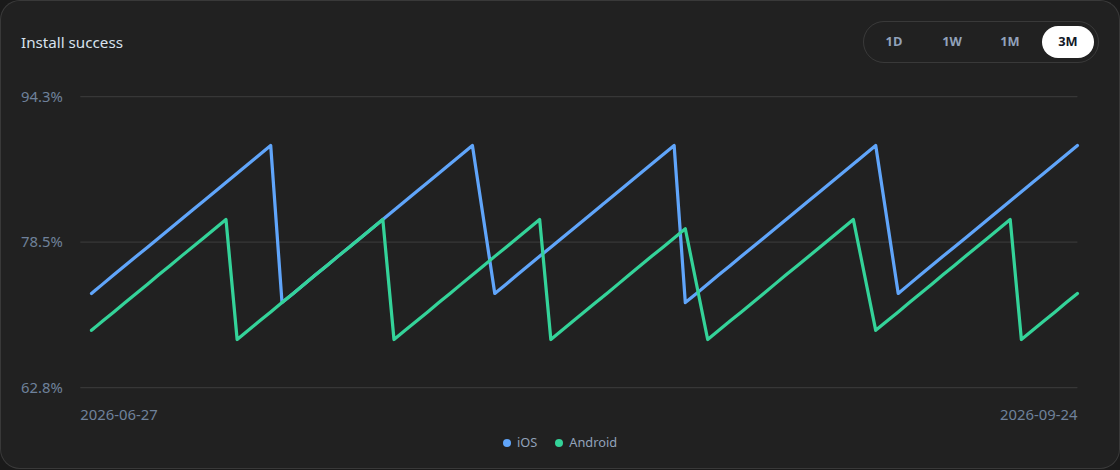
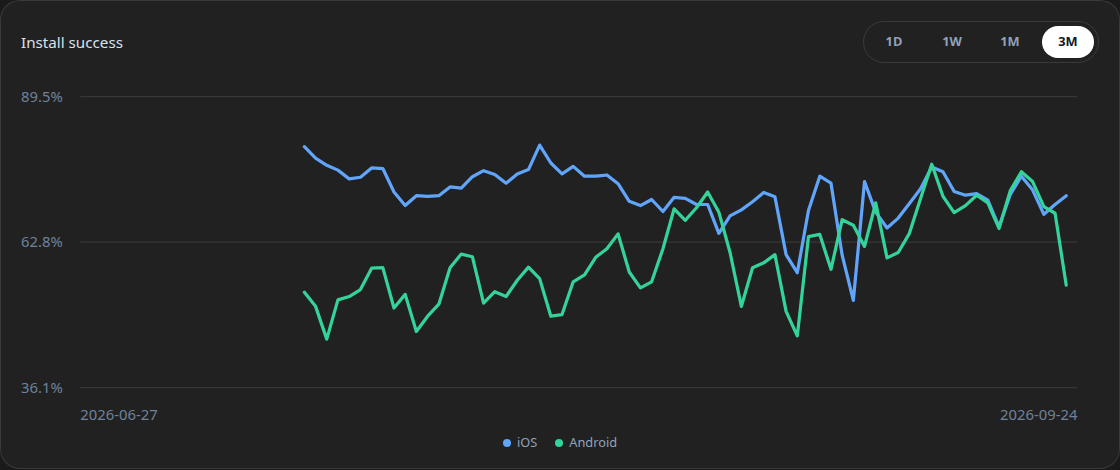
test(data): prod AE snapshot fixture and real chart screenshots
Commit live capgo.app/live-update-metrics.json from 2026-09-24T20:20:13Z.
Re-capture 3M, 1M, and 1D desktop chart crops from that payload with 90-day zero-fill.
Remove mobile fixture screenshots.

diff --git a/apps/web/test/public-live-update-metrics.test.js b/apps/web/test/public-live-update-metrics.test.js
@@ -1,10 +1,24 @@
 import { expect, test } from 'bun:test'
-import { selectTrendRows } from '../src/lib/metricsTrendChart.ts'
+import { readFileSync } from 'node:fs'
+import { buildContiguousDailyPlatformRows, selectTrendRows, TREND_HISTORY_DAYS } from '../src/lib/metricsTrendChart.ts'
 import { buildPublicLiveUpdateQueries, getPublicLiveUpdateMetrics } from '../src/lib/publicLiveUpdateMetrics.ts'
+
+const prodSnapshot = JSON.parse(readFileSync(new URL('./fixtures/live-update-metrics-prod-2026-09-24.json', import.meta.url), 'utf8'))
 
 function analyticsResponse(data) {
   return new Response(JSON.stringify({ data }), { headers: { 'content-type': 'application/json' } })
 }
+
+test('production snapshot zero-fills to 90 UTC days without altering real rates', () => {
+  const now = new Date(prodSnapshot.updated_at)
+  const filled = buildContiguousDailyPlatformRows(prodSnapshot.daily_platforms, now, TREND_HISTORY_DAYS)
+  expect(filled).toHaveLength(90)
+  expect(filled[0]?.date).toBe('2026-06-27')
+  expect(filled.find((row) => row.date === '2026-06-27')).toEqual({ date: '2026-06-27', ios: null, android: null })
+  expect(filled.find((row) => row.date === '2026-07-17')).toEqual(prodSnapshot.daily_platforms[0])
+  expect(selectTrendRows({ daily_platforms: filled }, '3m', now)).toHaveLength(90)
+  expect(selectTrendRows({ daily_platforms: filled }, '1m', now)).toHaveLength(30)
+})
 
 test('buildPublicLiveUpdateQueries stays at one Analytics Engine nest', () => {
   const queries = Object.values(buildPublicLiveUpdateQueries(new Date('2026-09-17T00:00:00.000Z')))
